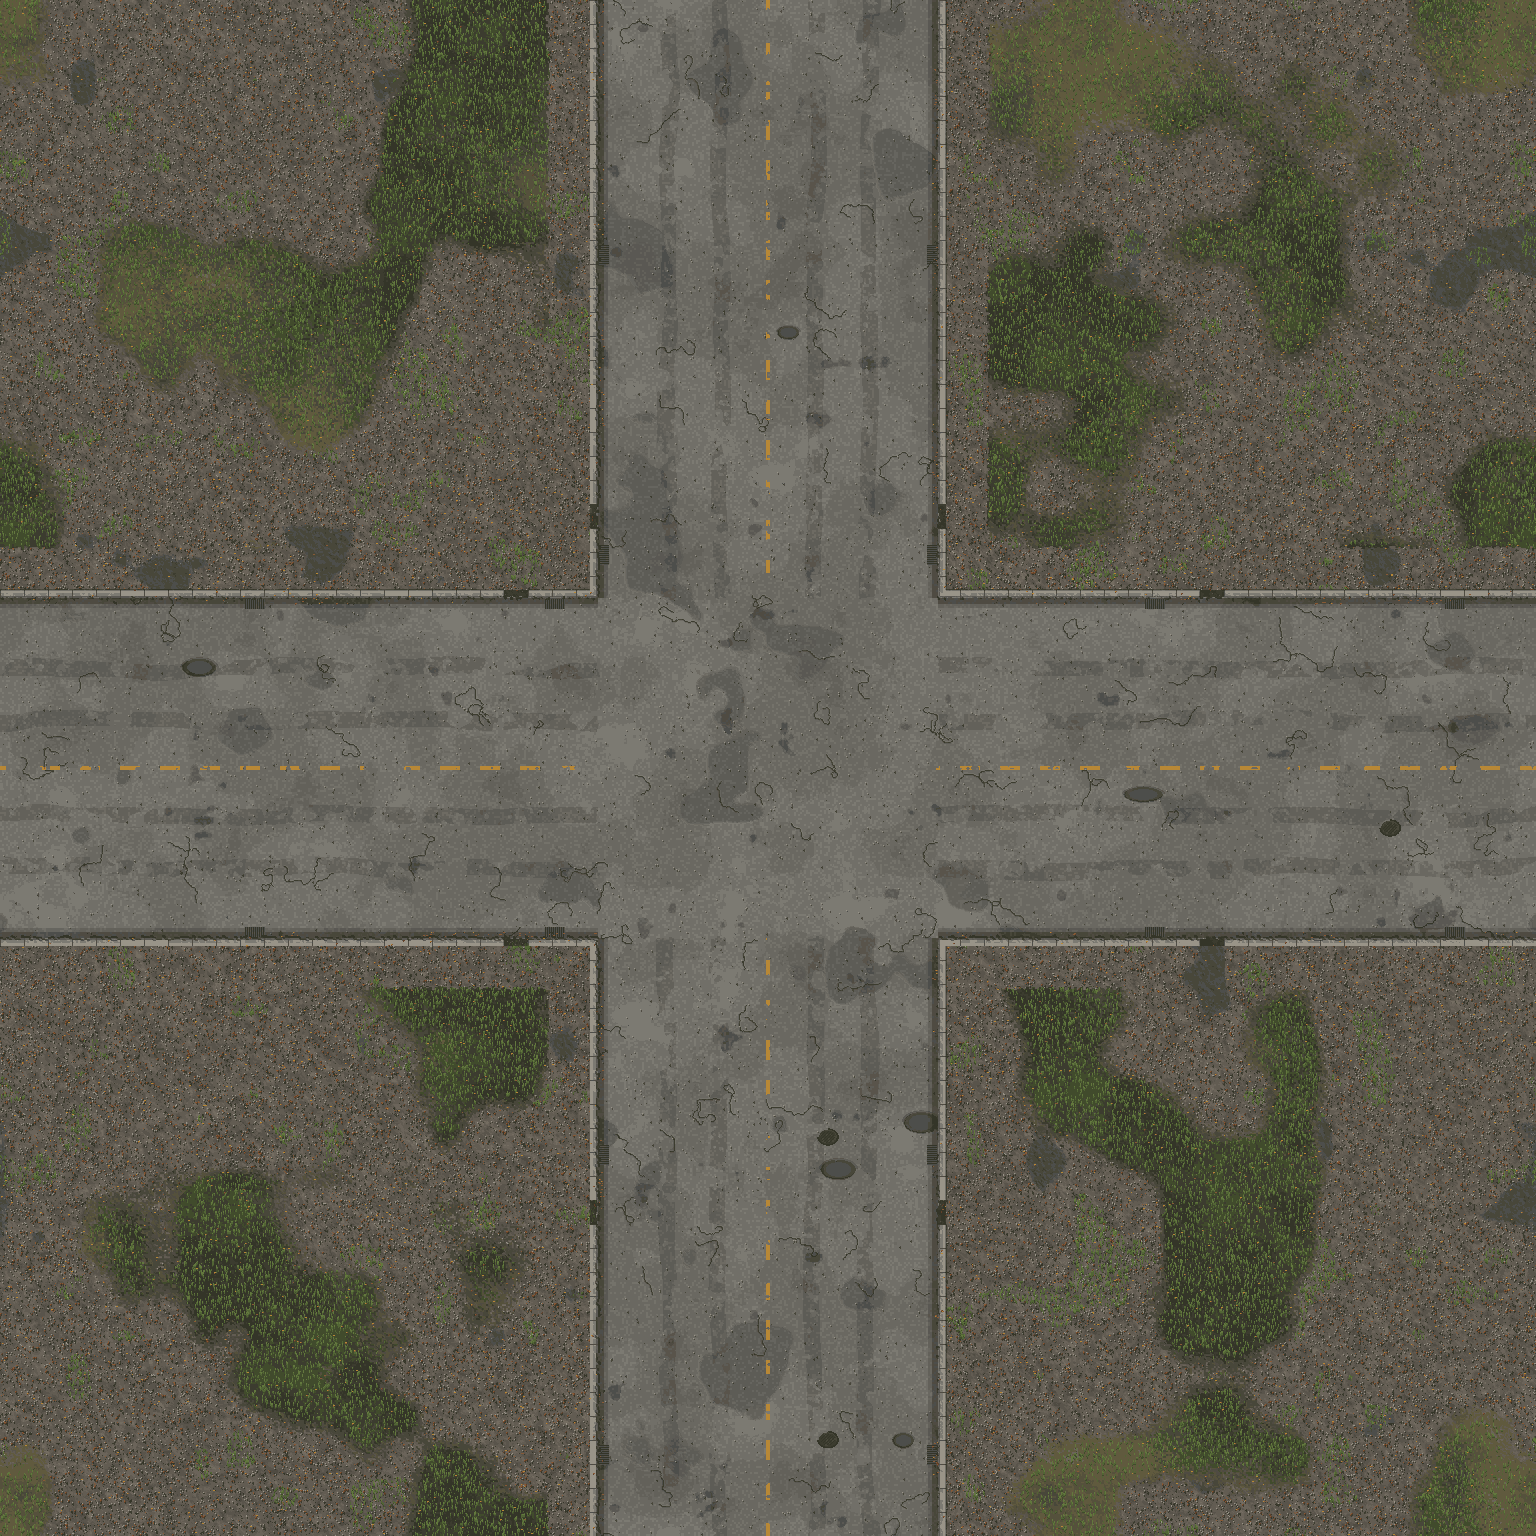
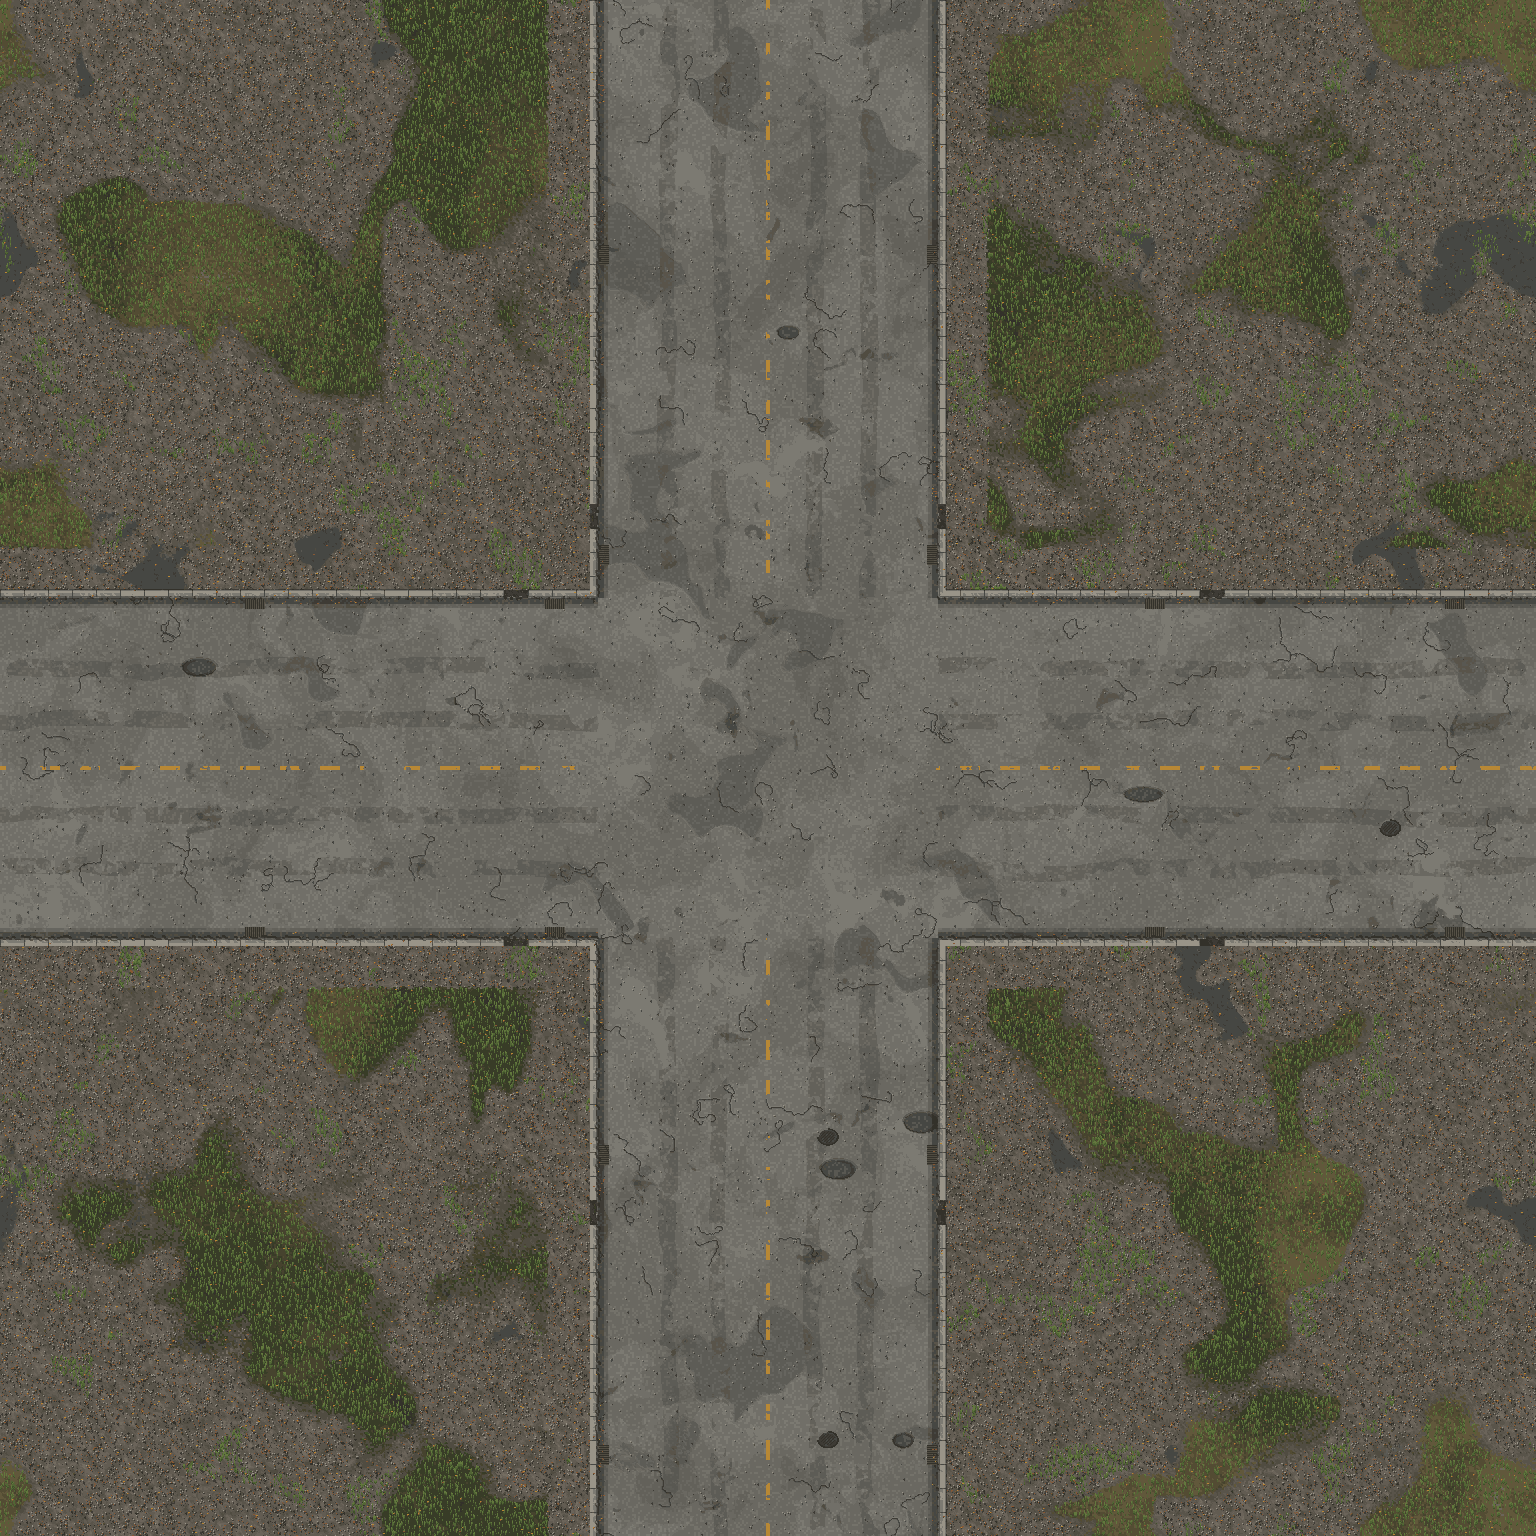
No cars on the rails; domain-warped ground noise; calmer forest floor, puddles on forest tracks
Claude-Session: https://claude.ai/code/session_01Q3d652Ep37MrDZiN13QEse

diff --git a/tools/wa_ground_districts.py b/tools/wa_ground_districts.py
@@ -44,8 +44,24 @@ X, Y = None, None
 RAGGED = 0.0
 
 
+_IDX = None
+
+
 def noise(seed, cell, oct=4):
-    return fbm(N, N, cell * K, seed, oct, wrap=True)
+    """fbm, domain-warped so patches never follow the axis-aligned noise grid
+    (stepped tones of plain value noise read as square camo blocks)."""
+    global _IDX
+    n = fbm(N, N, cell * K, seed, oct, wrap=True)
+    if cell < 6:
+        return n
+    if _IDX is None:
+        _IDX = np.mgrid[0:N, 0:N]
+    amp = cell * K * 0.6
+    wx = (fbm(N, N, cell * K * 0.7, seed + 7001, 2, wrap=True) - 0.5) * 2 * amp
+    wy = (fbm(N, N, cell * K * 0.7, seed + 7002, 2, wrap=True) - 0.5) * 2 * amp
+    yi = (_IDX[0] + wy).astype(int) % N
+    xi = (_IDX[1] + wx).astype(int) % N
+    return n[yi, xi]
 
 
 def step(n, levels, seed, jit=0.6, cell=2):
@@ -367,7 +383,7 @@ def woodland():
     alb = litter.copy()
     hf = 0.7 * noise(2102, 8, 3)
     mossy = soft(noise(2103, 36, 3), 0.44, 0.62)
-    alb = blend(alb, (64, 82, 46), mossy * 0.8)
+    alb = blend(alb, (72, 78, 46), mossy * 0.55)
     alb = clusters(alb, np.ones((N, N), bool), [(132, 94, 54), (112, 80, 46), (150, 112, 64), (86, 64, 42)], 2105, 0.10)   # needles
     alb = clusters(alb, mossy > 0.5, [(78, 100, 50), (94, 116, 58)], 2106, 0.06)
     # forest track: packed earth, soft edges with litter creeping in
@@ -380,6 +396,15 @@ def woodland():
     hf = hf * (1 - t_soft) + 0.25 * noise(2109, 3, 2) * t_soft
     alb, hf = ruts(alb, hf, rv, rh, (-20, 20), half=5.0, depth=1.2, dark=0.84)
     alb = speckle(alb, track, 0.04, [(124, 112, 94), (72, 60, 44)], 2110)
+    # rain water standing in the ruts, a grass crown, needles blown onto the track
+    pud = track & (hf < -0.7) & (noise(2115, 24, 3) > 0.62)
+    alb[pud] = (66, 74, 76)
+    alb[pud & (noise(2116, 4, 2) > 0.7)] = (96, 106, 110)
+    av, ah, inter = arm_masks(rv, rh)
+    c = (R0 + R1) / 2
+    crown = ((av & (np.abs(X - c) < 7)) | (ah & (np.abs(Y - c) < 7))) & (noise(2117, 18, 2) > 0.4)
+    alb = blades(alb, crown, 2118, 7000, cols=((62, 78, 40), (74, 90, 46), (88, 100, 52)))
+    alb = clusters(alb, track & (noise(2119, 30, 3) > 0.5), [(132, 94, 54), (112, 80, 46)], 2120, 0.03)
     # roots across the track edges
     t = Tex(N, N, seed=2111)
     for _ in range(70):
@@ -599,7 +624,7 @@ def woodland_yard():
     alb = litter.copy()
     hf = 0.6 * noise(6102, 8, 3)
     mossy = soft(noise(6103, 40, 3), 0.42, 0.6)
-    alb = blend(alb, (64, 82, 46), mossy * 0.8)
+    alb = blend(alb, (72, 78, 46), mossy * 0.55)
     # trampled clearing: packed earth in the middle of the yard
     trodden = soft(noise(6104, 110, 2), 0.5, 0.58)
     alb = blend(alb, (94, 80, 60), trodden * 0.85)

diff --git a/README_1380_DEV1_WORLD_HD.md b/README_1380_DEV1_WORLD_HD.md
@@ -290,3 +290,13 @@ QA: `tests/qa_vertical_fence_capture.gd`.
   Тайлится по миру без швов.
 - Там, где коридор кончается, путь завершается тупиковым упором (красно-белый
   брус на столбиках), а не ровным срезом.
+
+## Лес, машины у путей (dev16)
+
+- Брошенные машины в «Железнодорожном коридоре» больше не встают на рельсы:
+  `_car_spot_free` не пускает их на насыпь.
+- Шум для земли с искривлением координат (`noise` в `wa_ground_districts.py`):
+  пятна мха, травы и гравия получаются естественной формы, без прямоугольных
+  краёв по сетке.
+- Лесная подстилка: мох менее контрастный, без «камуфляжа». На лесной дороге
+  лужи в колеях, трава по центру, хвоя.
